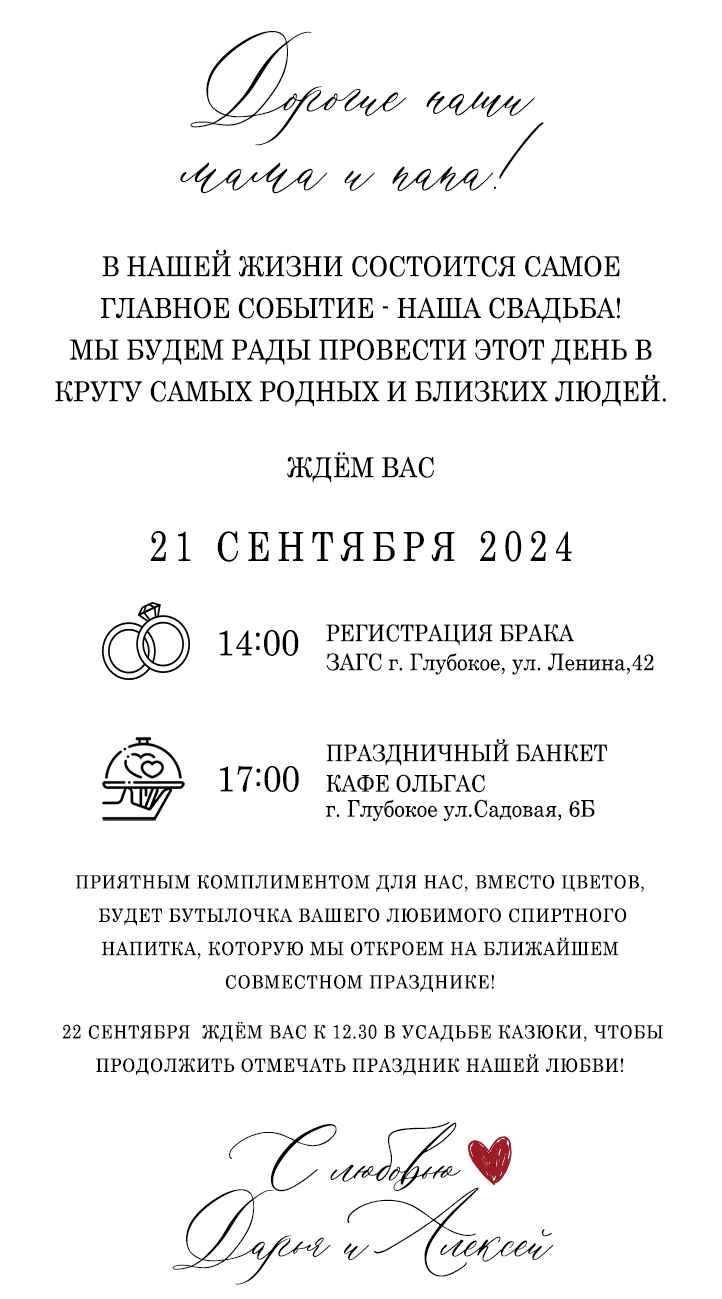
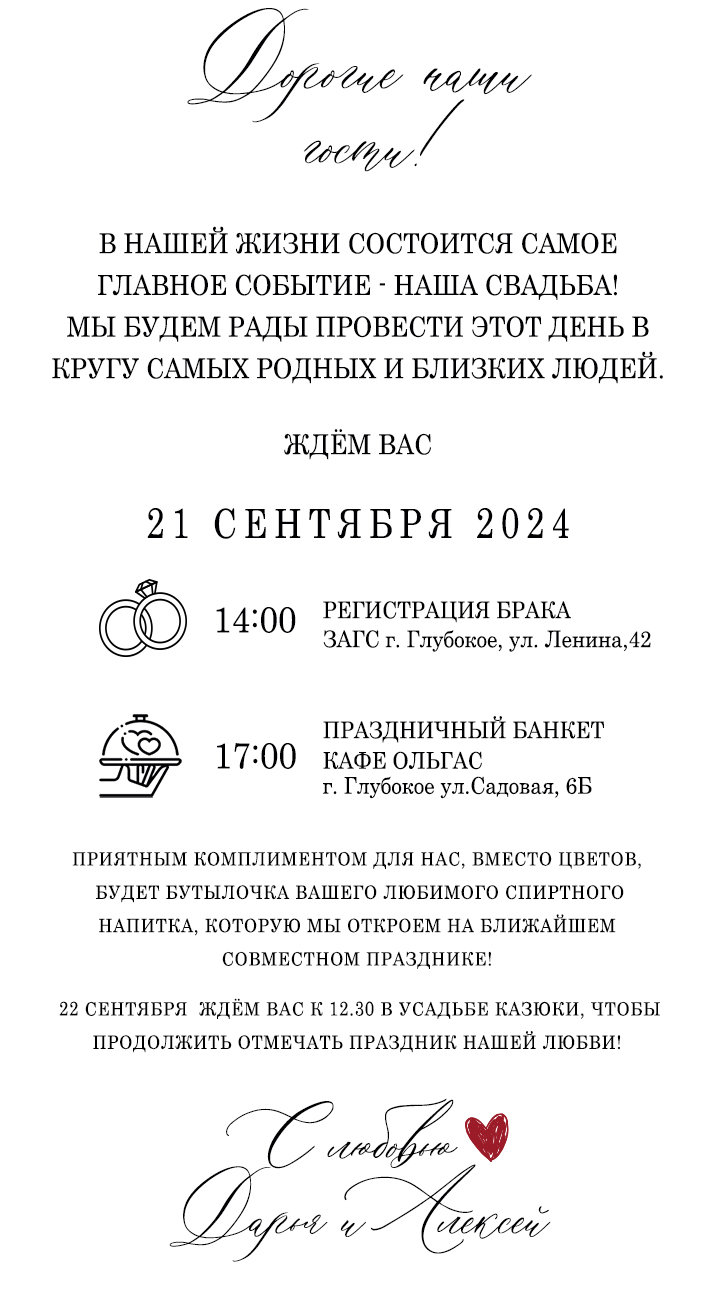
feat: guests

diff --git a/admin/script.js b/admin/script.js
@@ -1,58 +1,29 @@
 const names = [
   { id: "0", names: "Общее" },
-  { id: "1", names: "мама и папа.jpg" },
-  { id: "2", names: "Дорогие Ирина Николаевна, Александр Николаевич, Андрей и Юлия.jpg" },
-  { id: "3", names: "Дорогие Анна и Мария.jpg" },
-  { id: "4", names: "Дорогая Дария.jpg" },
-  { id: "5", names: "Уважаемые Тамара Терентьевна и Александр Павлович.jpg" },
-  { id: "6", names: "Уважаемые Степан Терентьевич и Валентина Антоновна.jpg" },
-  { id: "7", names: "Дорогие Артём и Юлия.jpg" },
-  { id: "8", names: "Дорогие Николай  Алексеевич, Светлана Алексеевна  , Павел и Кира.jpg" },
-  { id: "9", names: "Дорогие Игорь Владимирович и Валентина Евгеньевна.jpg" },
-  { id: "10", names: "Дорогие Владимир Викторович и Светлана Николаевна.jpg" },
-  { id: "11", names: "Дорогая Крёстная.jpg" },
-  { id: "12", names: "Дорогие Родион и Ева.jpg" },
-  { id: "13", names: "Дорогие Ян и Алиса.jpg" },
-  { id: "14", names: "Дорогая Кристина.jpg" },
-  { id: "15", names: "Дорогие Ян и Анастасия.jpg" },
-  { id: "16", names: "Дорогие Дмитрий и Маргарита.jpg" },
-  { id: "17", names: "Дорогие Даниил , Татьяна и Анастасия.jpg" },
-  { id: "18", names: "Дорогие Мама и Валерий.jpg" },
-  { id: "19", names: "Дорогие Папа, Светлана и Анна.jpg" },
-  { id: "20", names: "Уважаемые Анатолий Станиславович и Любовь Петровна.jpg" },
-  { id: "21", names: "Уважаемые Галина Николаевна, Вадим Геннадьевич и Полина Константиновна.jpg" },
-  { id: "22", names: "Дорогие Антонина , Виктор, Злата и Рома.jpg" },
-  { id: "23", names: "Дорогие Светлана Петровна, Александр Олегович и Анастасия Олеговна.jpg" },
-  { id: "24", names: "Дорогие Анна, Дарья , Григорий Петрович и Валентина Николаевна.jpg" },
-  { id: "25", names: "Дорогие Сергей и Галина.jpg" },
-  { id: "26", names: "Дорогие Андрей и Оксана.jpg" },
-  { id: "27", names: "Дорогие Дмитрий , Татьяна , Милана и Валерия.jpg" },
-  { id: "28", names: "Дорогие Виталий и Виктория.jpg" },
-  { id: "29", names: "Дорогие Анатолий и Ксения.jpg" },
-  { id: "30", names: "Дорогие Сергей и Ксения.jpg" },
-  { id: "31", names: "Дорогая Светлана.jpg" },
-  { id: "32", names: "Уважаемые Маргарита Николаевна и Виктор Николаевич.jpg" },
-  { id: "33", names: "Уважаемые Владимир Геннадьевич и Надежда Игоревна.jpg" },
-  { id: "34", names: "Дорогие Александр и Елена.jpg" },
-  { id: "35", names: "Дорогие Андрей и Юлия.jpg" },
-  { id: "36", names: "Дорогие Сергей и Анастасия.jpg" },
-  { id: "37", names: "Дорогие Артём и Иоланта.jpg" },
-  { id: "38", names: "Дорогие Филипп и Маргарита.jpg" },
-  { id: "39", names: "Дорогие Максим и Анастасия.jpg" },
-  { id: "40", names: "Уважаемый Илья Сергеевич.jpg" },
-  { id: "41", names: "Дорогой Сергей.jpg" },
-  { id: "42", names: "Дорогой Денис.jpg" },
-  { id: "43", names: "Уважаемый Артём Сергеевич.jpg" },
-  { id: "44", names: "Дорогие Игорь и Виктория.jpg" },
-  { id: "45", names: "Дорогие Константин и Кристина.jpg" },
-  { id: "46", names: "Дорогие Максим и Марина.jpg" },
-  { id: "47", names: "Уважаемый Егор Вячеславович.jpg" },
-  { id: "48", names: "Дорогие Денис и Валерия.jpg" },
-  { id: "49", names: "Дорогие Павел и Анна.jpg" },
-  { id: "50", names: "Дорогие Михаил и Анна.jpg" },
-  { id: "51", names: "Дорогой Олег.jpg" },
-  { id: "52", names: "Дорогие Кирилл и Светлана.jpg" },
-
+  { id: "1", names: "мама и папа" },
+  { id: "2", names: "Андрей,  Екатерина" },
+  { id: "3", names: "Александр, Елена" },
+  { id: "4", names: "Виктор,Алеся, Александра, Артём" },
+  { id: "5", names: "дядя Витя, тётя Оля" },
+  { id: "6", names: "Фёдор, Полина" },
+  { id: "7", names: "Александр, Мария" },
+  { id: "8", names: "Александр, Мария" },
+  { id: "9", names: "Евгений, Татьяна" },
+  { id: "10", names: "Николай,Елена" },
+  { id: "11", names: "Александр, Юлия" },
+  { id: "12", names: "Олег, Ольга" },
+  { id: "13", names: "Никита, Ольга" },
+  { id: "14", names: "Олег, Алина" },
+  { id: "15", names: "Александр, Диана" },
+  { id: "16", names: "Алексей, Дарья" },
+  { id: "17", names: "Дмитрий, Яна" },
+  { id: "18", names: "Влад, Диана" },
+  { id: "19", names: "Татьяна" },
+  { id: "20", names: "Илья" },
+  { id: "21", names: "Павел" },
+  { id: "22", names: "Дмитрий" },
+  { id: "23", names: "Николай" },
+  { id: "24", names: "тётя Ядя" },
 ];
 
 const baseURL = location.href.replace('admin/', ''); //location.origin

diff --git a/admin/index.html b/admin/index.html
@@ -9,14 +9,14 @@
 
     <meta property="og:type" content="website" />
     <meta property="og:title" content="Админка. Ссылки" />
-    <meta property="og:image" content="https://ye-story.github.io/d-a.21.09.invite/img/1.jpg" />
+    <meta property="og:image" content="https://ye-story.github.io/d-a.21-09.invite/img/1.jpg" />
     <meta property="og:site_name" content="Links (Admin): D & A" />
     <meta
       property="og:description"
       content="Свадебное приглашение Дарьи и Алексея!"
     />
 
-    <meta property="og:url" content="https://ye-story.github.io/d-a.21.09.invite/admin/" />
+    <meta property="og:url" content="https://ye-story.github.io/d-a.21-09.invite/admin/" />
 
     <link rel="stylesheet" type="text/css" href="styles.css" />
     <title>Admin: D & A</title>

diff --git a/script.js b/script.js
@@ -11,10 +11,10 @@ const id = urlParams.get('id');
 
 const baseImgPath = './img/guests/';
 
-if (+id && !isNaN(+id) && (+id <= 52) && (+id > 0)) { 
+if (+id && !isNaN(+id) && (+id <= 24) && (+id > 0)) { 
   // img1.src = baseImgPath + `1_${id}.jpg`;
-  img2.src = baseImgPath + `2_${id}.jpg`;
-  // img3.src = baseImgPath + '3.jpg';
+  //img2.src = baseImgPath + `2_${id}.jpg`;
+  img3.src = baseImgPath + `3_${id}.jpg`;
   // img4.src = baseImgPath + '4.jpg';
 }
 else {
